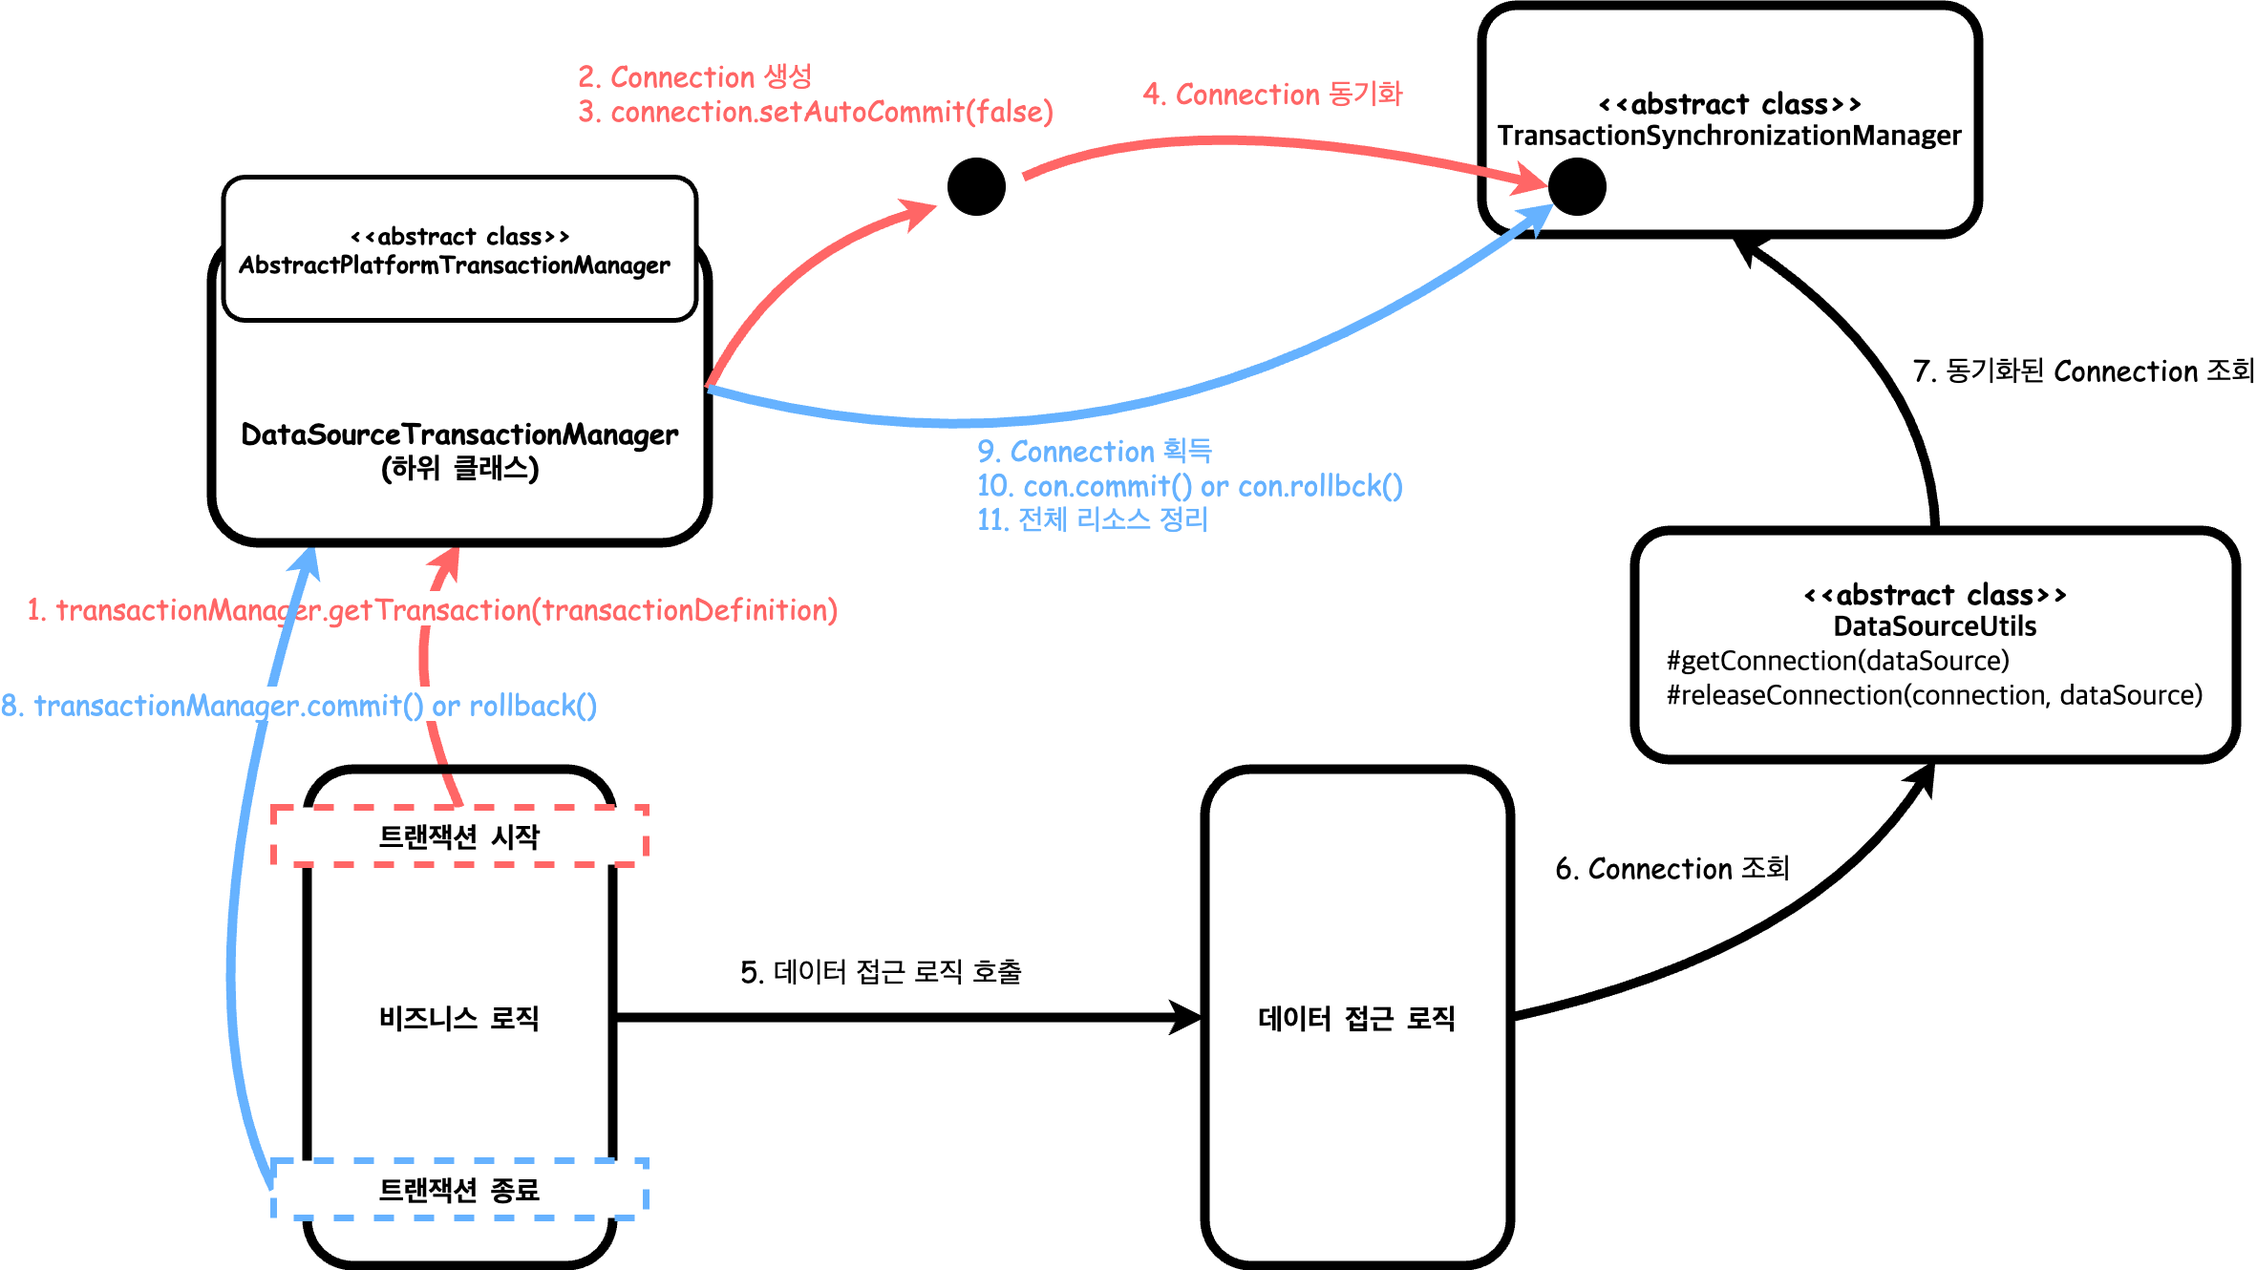
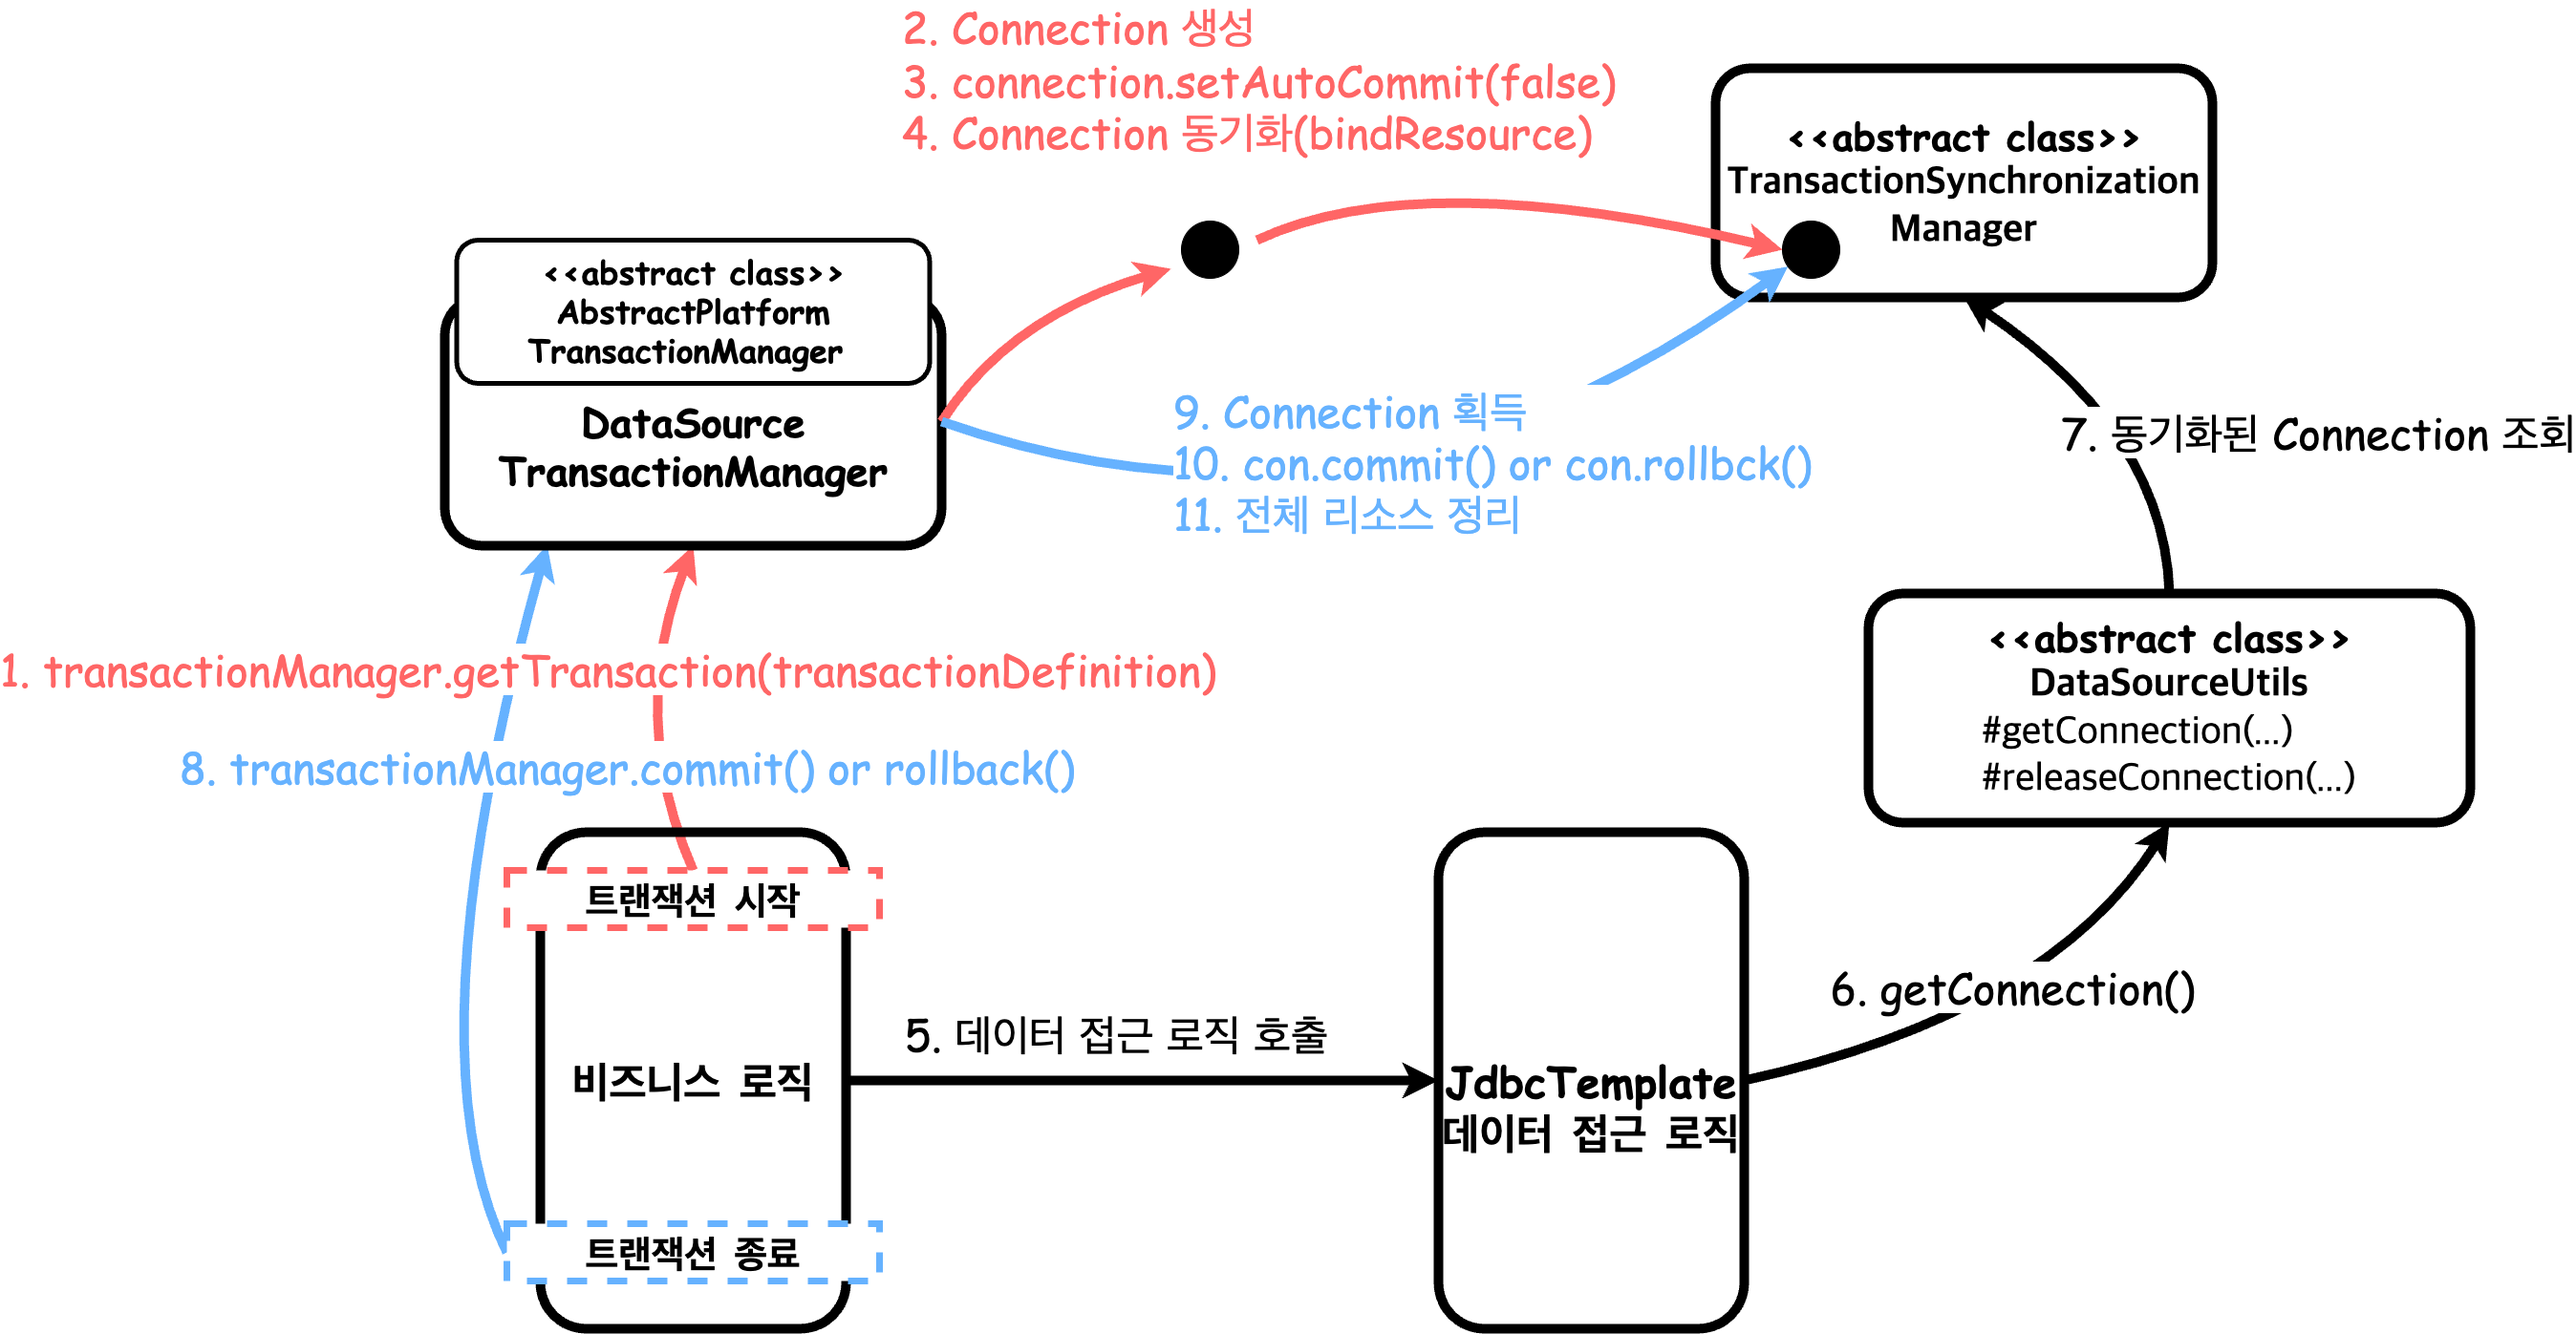
내용 수정

Changed region(s): [[0.0, 0.0, 1.0, 1.0], [0.2471, 0.0, 0.6179, 0.2158], [0.4016, 0.2158, 0.4325, 0.2466]]

diff --git a/content/blog/2024y/rwseparate/index.md b/content/blog/2024y/rwseparate/index.md
@@ -1,5 +1,5 @@
 ---
-title: Spring에서 RW분리를 이해하기 위한 여정 (+ JDBC, 서비스 추상화)
+title: Spring RW분리를 이해하기 위한 여정 (+ JDBC, 서비스 추상화)
 date: "2024-07-10"
 tags:
    - Lab
@@ -238,20 +238,47 @@ public class MemberService {
 
 서비스 추상화를 통해 유연해졌고, 트랜잭션 동기화 매니저를 통해 Connection도 동기화하였다.  
 하지만 아직 서비스 계층에서 트랜잭션 관련 코드가 남아있는데, 이 문제를 `@Transacitonal`을 통해 해결할 수 있다.  
+일반적으로 데이터베이스, 트랜잭션 관련 API를 직접 사용하는 것보다 Spring 추상화를 통한 작업이 훨씬 더 유연하기 때문에 DataSourceUtils나 다른 헬퍼 클래스 사용을 자제하는 것이 좋다.  
+
+```java
+// [4]
+public interface Service {
+    // [3]
+    void method1();
+    // [3]
+    void method2();
+}
+
+// [2]
+public class ServiceImpl implements Service {
+    // [1]
+    public void method1(){ ... }
+    // [1]
+    public void method2() { ... }
+}
+```
+
+`@Transactional`을 적용할 때 **4단계의 대체정책** 을 이용한다.  
+타깃 오브젝트의 메소드 → 타깃 클래스 → 선언 메소드 → 선언 클래스(또는 인터페이스)의 순서에 따라서 적용됐는지 차례대로 확인하고,
+가장 먼저 발견되는 속성정보를 사용하게된다.  
+그리고 `public`으로 정의된 메서드만 트랜잭션이 걸리게 스프링이 제한해놓았다.  
   
 이 AOP를 적용하기 위해 아래의 클래스가 제공된다.  
 1. **어드바이저** : `BeanFactoryTransactionAttributeSourceAdvisor`
 2. **포인트컷** : `TransactionAttributeSourcePointcut`
 3. **어드바이스** : `TransactionInterceptor`
 
+![](./transactionalAOP.png)
 
+![](./transactional.png)
 
-
-
+Spring AOP 덕분에 비즈니스 로직까지 모두 해결하였다. 프록시 생성에 대한 자세한 내용은 [빈 후처리기를 이용한 프록시 생성에 대해](https://jdalma.github.io/2024y/postprocessor/#%EB%B9%88-%ED%9B%84%EC%B2%98%EB%A6%AC%EA%B8%B0%EB%A5%BC-%EC%9D%B4%EC%9A%A9%ED%95%9C-%EC%9E%90%EB%8F%99-%ED%94%84%EB%A1%9D%EC%8B%9C-%EC%83%9D%EC%84%B1%EA%B8%B0)를 참고하자.
 
 ***
 
 # 읽기/쓰기 분리하기
+
+
 
 ## 두 개의 DataSource 등록
 
@@ -310,11 +337,9 @@ public final class DataSourceBuilder<T extends DataSource> {
 
 # 궁금한 내용들 정리
 
-2. [ ] DataSource의 Connection을 얻어오는 과정부터 실제로 쿼리가 실행되고 커밋되는 구조 (트랜잭션 서비스 추상화에 대한 이해)
-   1. [ ] [Understanding the Spring Framework Transaction Abstraction](https://docs.spring.io/spring-framework/reference/data-access/transaction/strategies.html#page-title)
-   2. [ ] 
-3. [ ] LazyConnectionDataSourceProxy의 역할
-4. [ ] 여러 데이터소스 사용 시 락 예외 [참고](https://github.com/jdalma/footprints/tree/main/%EC%B4%88%EC%95%88)
+1. [x] DataSource의 Connection을 얻어오는 과정부터 실제로 쿼리가 실행되고 커밋되는 구조 (트랜잭션 서비스 추상화에 대한 이해)
+2. [ ] LazyConnectionDataSourceProxy의 역할
+3. [ ] 여러 데이터소스 사용 시 락 예외 [참고](https://github.com/jdalma/footprints/tree/main/%EC%B4%88%EC%95%88)
 
 # 읽어보기
 
@@ -328,4 +353,5 @@ public final class DataSourceBuilder<T extends DataSource> {
 3. [[10분 테코톡] 코코닥의 JDBC](https://www.youtube.com/watch?v=ONYVhJGl48U&ab_channel=%EC%9A%B0%EC%95%84%ED%95%9C%ED%85%8C%ED%81%AC)
 4. [JDBC Connection 에 대한 이해, HikariCP 설정 팁](https://jiwondev.tistory.com/291)
 5. [스프링 DB 1편 - 데이터 접근 핵심 원리](https://www.inflearn.com/course/%EC%8A%A4%ED%94%84%EB%A7%81-db-1)
-6. [스프링 DB 2편 - 데이터 접근 활용 기술](https://www.inflearn.com/course/%EC%8A%A4%ED%94%84%EB%A7%81-db-2)
+6. [Synchronizing Resources with Transactions](https://docs.spring.io/spring-framework/reference/data-access/transaction/tx-resource-synchronization.html)
+7. [Understanding the Spring Framework Transaction Abstraction](https://docs.spring.io/spring-framework/reference/data-access/transaction/strategies.html#page-title)
